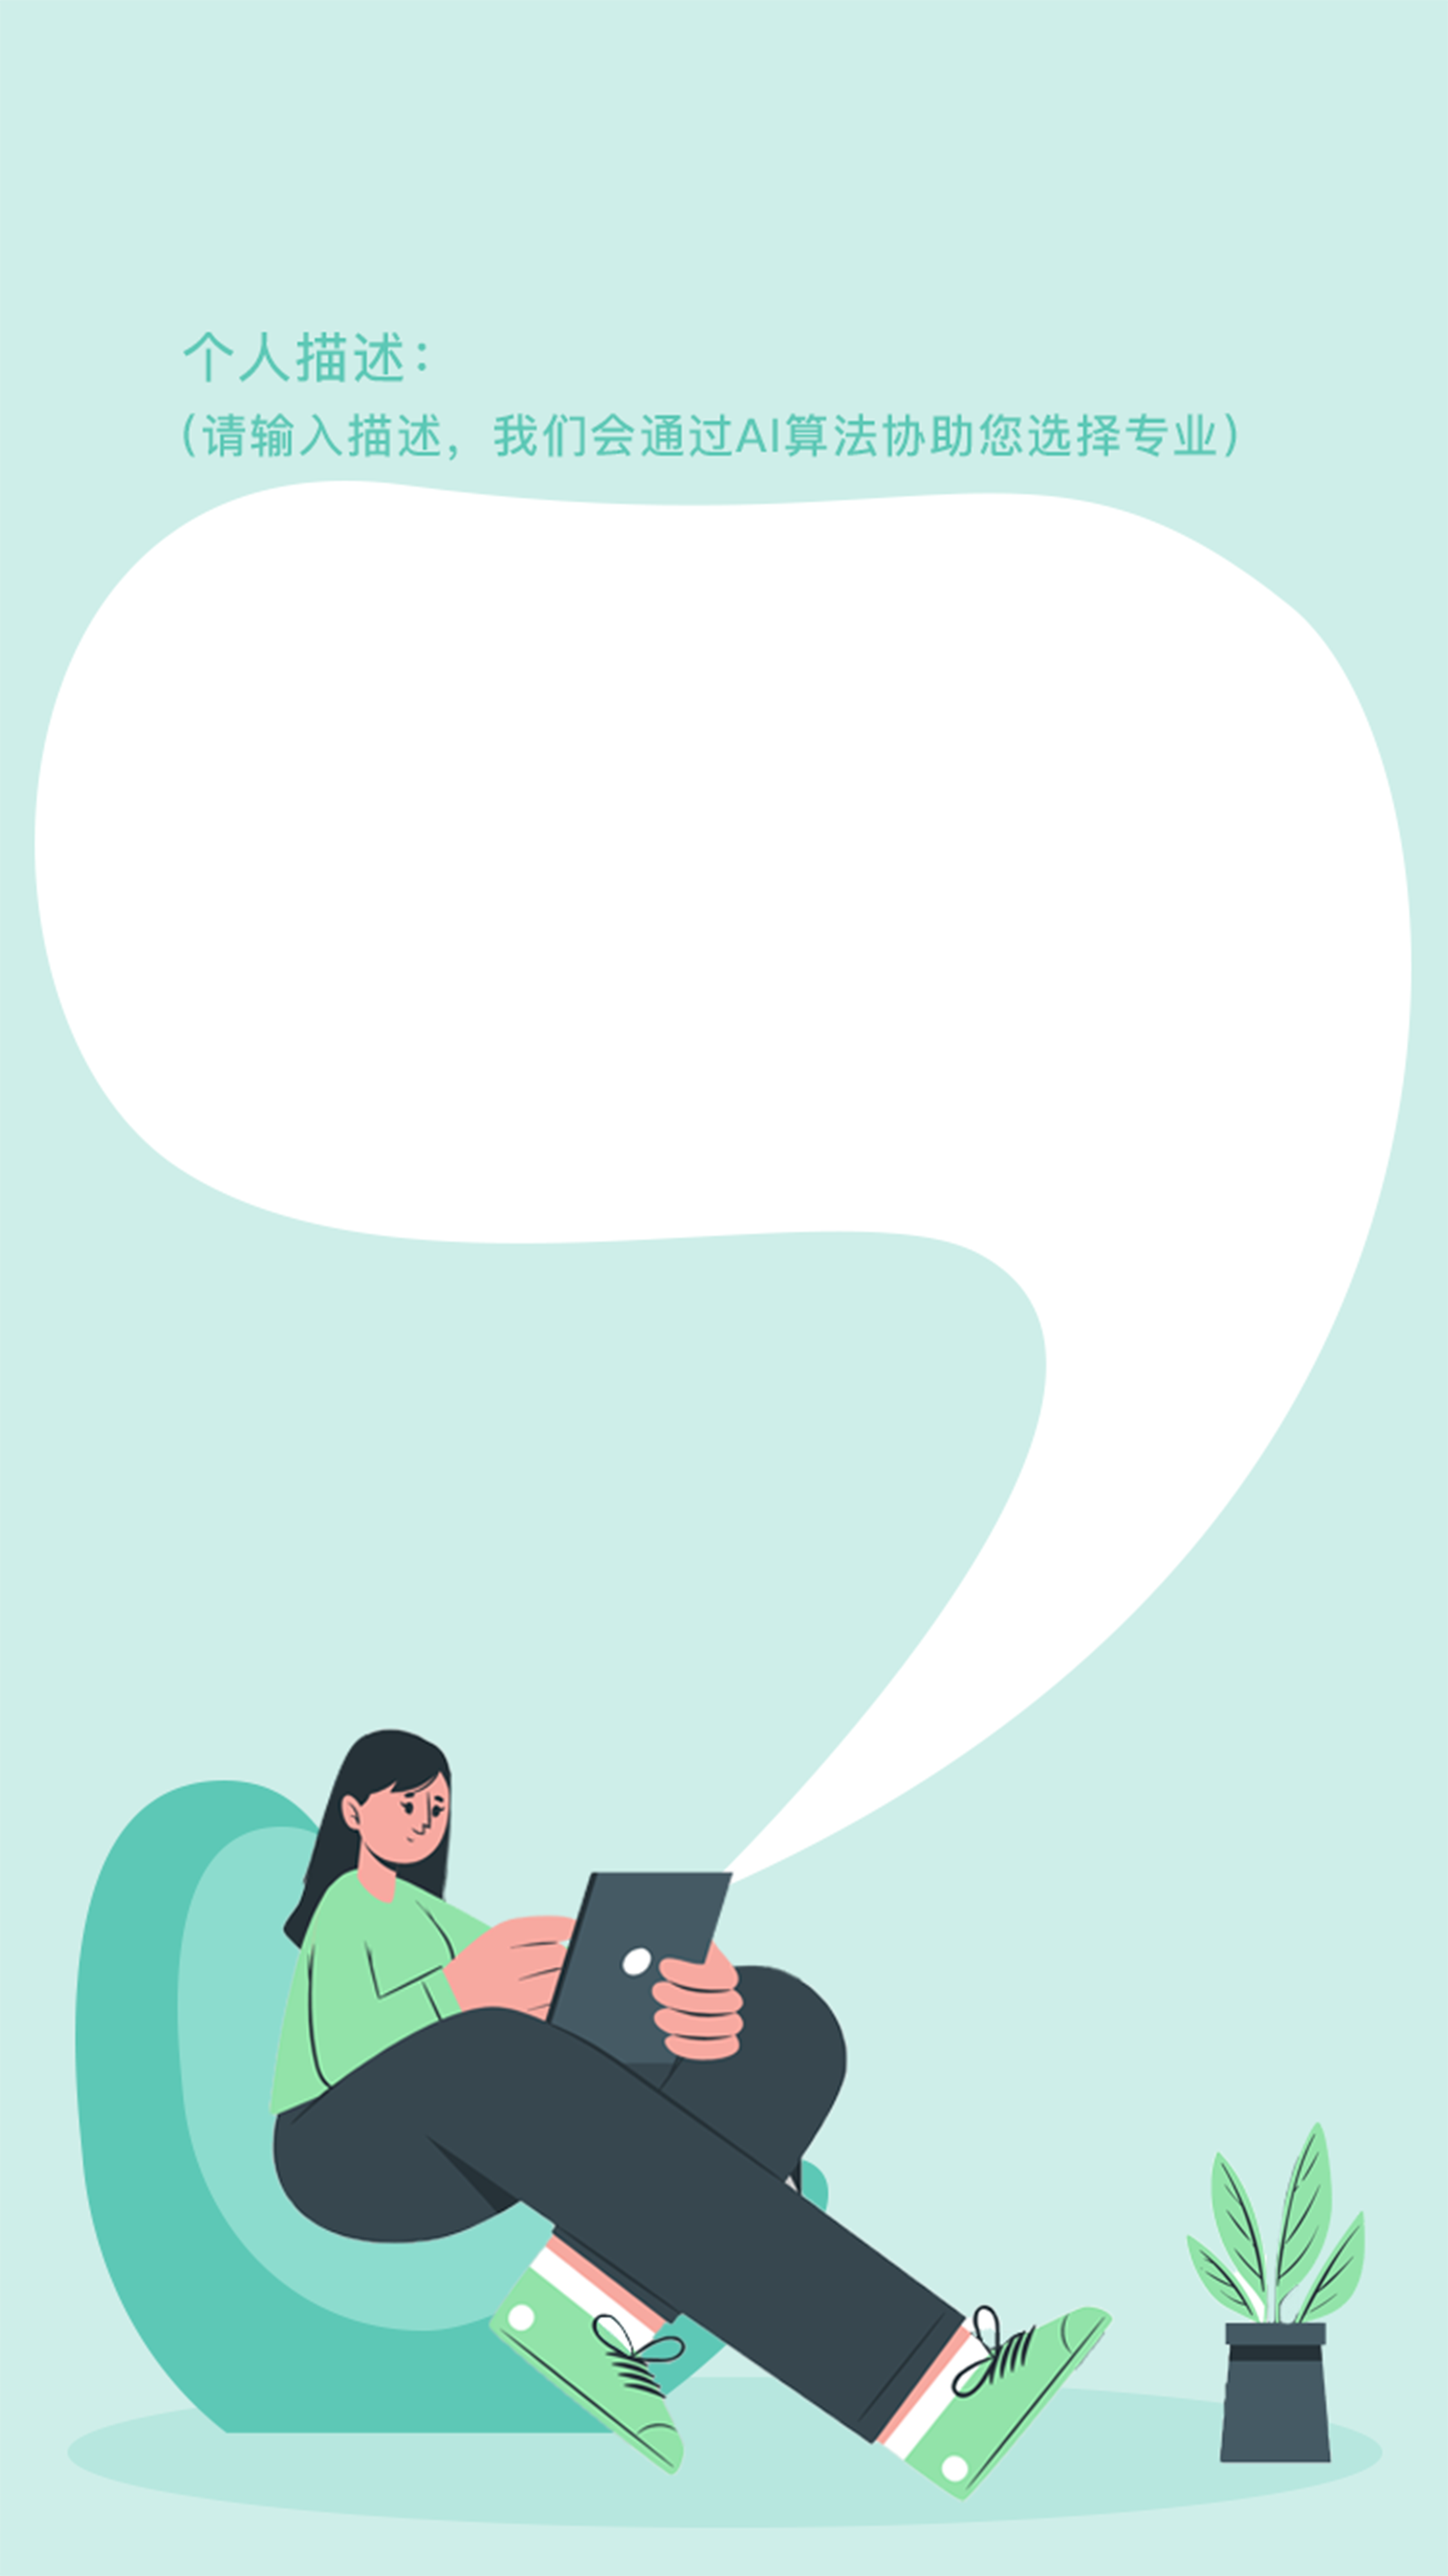
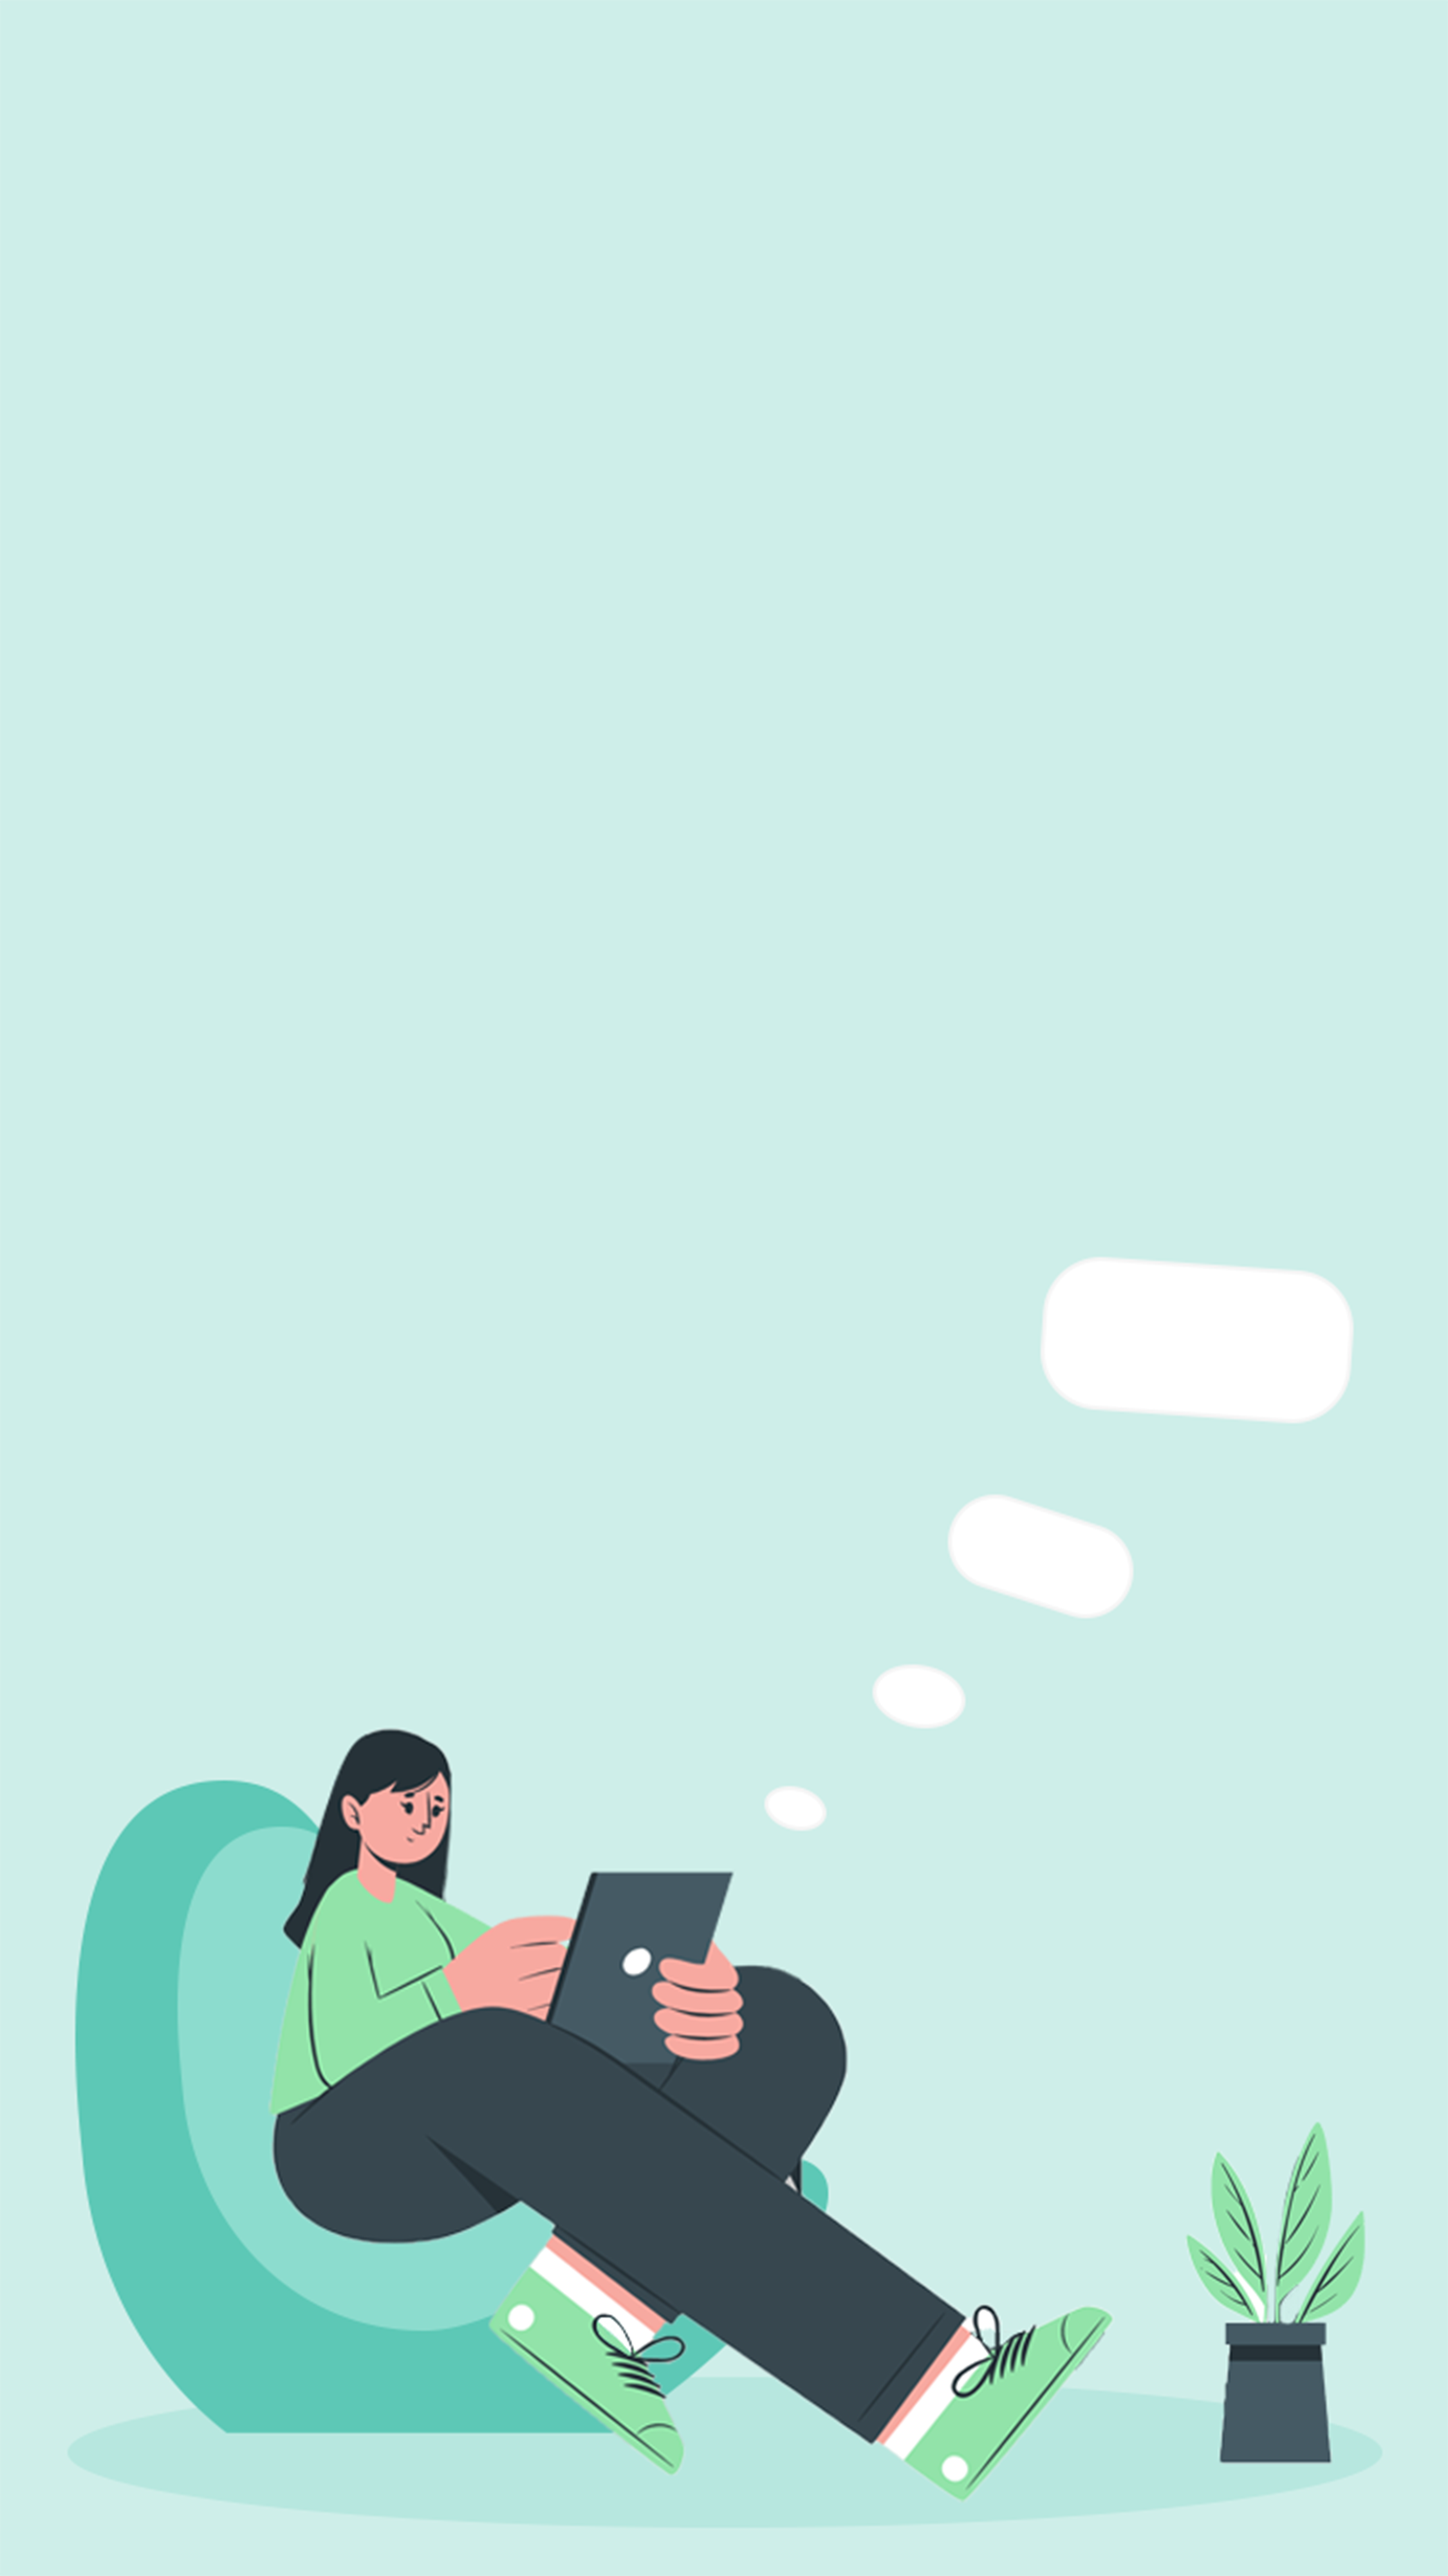
update:ai匹配页面适配

Changed region(s): [[0.0, 0.1249, 0.9956, 0.7184], [0.4978, 0.7184, 0.5289, 0.7496]]

diff --git a/src/views/AiMatch.vue b/src/views/AiMatch.vue
@@ -1,5 +1,10 @@
 <template>
   <div class="match">
+    <div class="mark">
+    <div class="title">
+      <h2>个人描述：</h2>
+      <h3>(请输入描述，我们会通过AI算法协助您选择专业）</h3>
+    </div>
     <div class="info">
       <textarea
         placeholder="输入一句话描述自己的品格性格或
@@ -9,6 +14,7 @@
 以后想当医生。"
       ></textarea>
       <div class="btn" @click="match">匹配结果</div>
+    </div>
     </div>
     <div class="loading" v-if="loading">
       <div class="loading-info">
@@ -54,12 +60,31 @@ export default {
   background-size: 100% 100%;
   background-repeat: no-repeat;
 }
-.info {
+.mark {
   position: absolute;
-  top: 18.4rem;
+  top: 15.4rem;
   left: 50%;
   transform: translateX(-50%);
+}
+.title h2 {
+  font-size: 1.4rem;
+ 
+}
+.title h3 {
+  font-size: 1.2rem;
+}
+.title {
+   color: #5dc8b6;
+  font-weight: 700;
+  padding-bottom: .8rem;
+  padding-left: 4.8rem;
+}
+.info {
   text-align: center;
+  width: 31rem;
+  background: #fff;
+  border-radius: 7rem;
+  padding: 2.2rem;
 }
 .info textarea {
   width: 21.9rem;
@@ -103,6 +128,9 @@ export default {
   background-color: #000000;
   border-radius: 0.5rem;
   opacity: 0.5;
+  padding: 1.5rem 2rem;
+  box-sizing: border-box;
+
 }
 .loading-info p {
   color: #fff;
